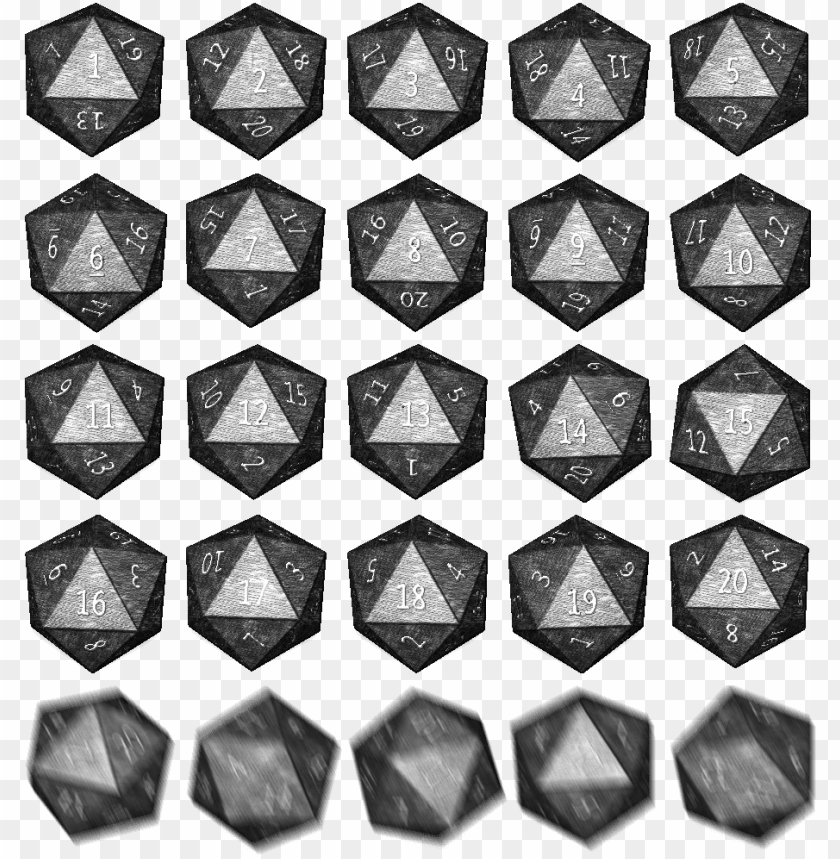
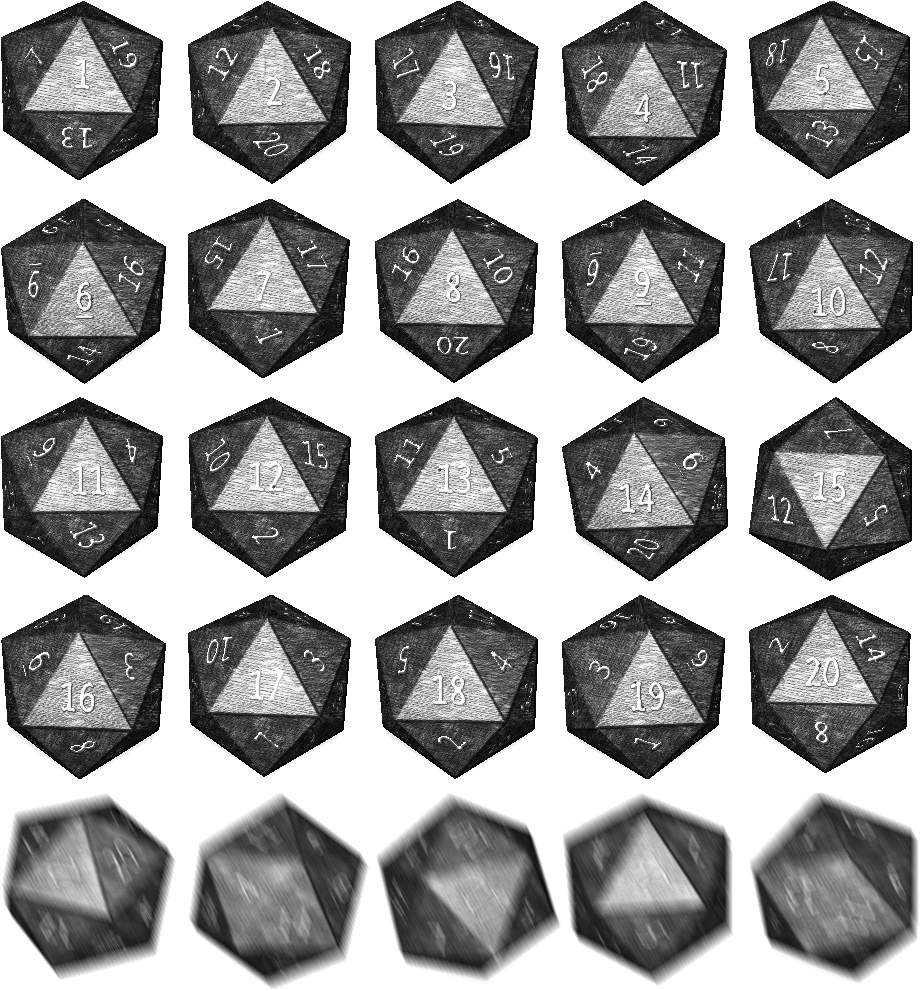
image fix started

diff --git a/character/characterView.js b/character/characterView.js
@@ -1,10 +1,11 @@
 import { requestData} from '../utilities.js';
-import {fs} from 'fs';
+// import {fs} from 'fs';
 export default class characterView {
     constructor() {}
     getFormData() {
         return {
             name: document.getElementById('name').value,
+            image: document.getElementById('characterImageSelect').files[0],
             level: document.getElementById('level').value,
             className: document.getElementById('class').value,
             race: document.getElementById('race').value,
@@ -105,10 +106,16 @@ export default class characterView {
             document.getElementById('error').appendChild(noCharactersDiv);
         }
     }
-    showImage(parentId,imgFile) {
-        const characterImageElem = document.createElement('img');
-        characterImageElem.src = imgFile;
-        document.getElementById(parentId).appendChild(characterImageElem);
+    showImage(imgElem,imgFile) {
+        const reader  = new FileReader();
+        reader.onloadend = function () {
+            imgElem.src = reader.result;
+        }
+        if (imgFile) {
+            reader.readAsDataURL(imgFile);
+        } else {
+            imgElem.src = "";
+        }
     }
     renderProvidedImages(){
             //render image

diff --git a/mainScreen/mainScreenModel.js b/mainScreen/mainScreenModel.js
@@ -6,17 +6,18 @@ export default class MainScreenModel {
         this.maps = [];
         this.content = "";
     }
-    // getImageSize(imageUrl) {
-    //     let dimension, image;
+    getImageSize(imageUrl) {
+        let dimension, image;
 
-    //     image = new Image();
-    //     image.src = imageUrl;
-    //     image.onload = function() {
-    //         dimension = {
-    //             width: image.naturalWidth,
-    //             height: image.naturalHeight
-    //         };
-    //     };
-    //     return dimension;
-    // }
+        image = new Image();
+        image.src = imageUrl;
+        image.onload = function() {
+            dimension = {
+                width: image.naturalWidth,
+                height: image.naturalHeight
+            };
+            console.log(dimension)
+        };
+        return dimension;
+    }
 }

diff --git a/character/characterController.js b/character/characterController.js
@@ -11,10 +11,9 @@ export default class characterController {
         window.location.href = './characterSelect.html';
     }
     uploadImage() {
-        const inputElement = document.getElementById("characterImage");
+        const inputElement = document.getElementById("characterImageSelect");
         inputElement.addEventListener("change", () => {
-            const fileList = this.files; 
-            this.characterView.showImage("characterImage",fileList[i]);
+            this.characterView.showImage(document.getElementById("characterImage"),inputElement.files[0]);
         });
     }
     async generateWeaponsDropDown() {

diff --git a/mainScreen/mainScreenStyle.css b/mainScreen/mainScreenStyle.css
@@ -48,19 +48,19 @@ a {
 }
 @keyframes myAnimation {
     0% {
-        background-position: 0px -680px;
+        background-position: 0px -800px;
     }
     100% {
-        background-position: 840px -680px;
+        background-position: 920px -800px;
     }
 }
 #dice {
     transform: scale(.5);
     width: 180px;
-    height: 160px;
+    height: 180px;
     background-image: url('../img/dice.png');
     margin: auto;
-    animation-duration: 1s;
+    animation-duration: .8s;
     animation-timing-function: steps(5, end);
     animation-name: myAnimation;
     animation-play-state: paused;

diff --git a/character/characterModel.js b/character/characterModel.js
@@ -2,7 +2,7 @@ import {requestData} from '../utilities.js';
 export default class CharacterModel {
     constructor() {
         this.characterName ='';
-        this.characterImage = '';
+        this.image = '';
         this.level = 1;
         this.exp = 0;
         this.class = '';
@@ -27,6 +27,7 @@ export default class CharacterModel {
     }
     setCharacter(dataObject) {
         this.characterName = dataObject.name;
+        this.image = dataObject.image;
         this.level = dataObject.level;
         this.exp = dataObject.exp;
         this.class = dataObject.className;

diff --git a/mainScreen/index.js b/mainScreen/index.js
@@ -5,7 +5,7 @@ import mainScreenController from './mainScreenController.js';
  */
 
 const controller = new mainScreenController();
-controller.mainScreenView.generateMap(24,12);
+controller.mainScreenView.generateMap(24,12, controller.mainScreenModel.getImageSize('../img/map1.jpg'));
 controller.mainScreenView.initPlayer("../img/dragonborn.png",4,1);
 const ws = new WebSocket('ws://localhost:5500');
 ws.addEventListener('open', () => {

diff --git a/mapSelect/mapSelect.html b/mapSelect/mapSelect.html
@@ -1,0 +1,17 @@
+<!DOCTYPE html>
+<html lang="en">
+<head>
+    <meta charset="UTF-8">
+    <meta name="viewport" content="width=device-width, initial-scale=1.0">
+    <title>DnD map select</title>
+</head>
+<body>
+    <div id='Maps'>
+        <div class="map">
+            <h2>Add new map</h2>
+            <div>+</div>
+            
+        </div>
+    </div>
+</body>
+</html>

diff --git a/mainScreen/mainScreenView.js b/mainScreen/mainScreenView.js
@@ -3,7 +3,7 @@ export default class mainScreenView{
         this.gridElement = document.getElementById('grid');
     }
 
-    generateMap(xTiles,yTiles){
+    generateMap(xTiles,yTiles, imgSize){
         //css calc() only accepts integers so we must convert xTiles and yTiles by rounding up.
         xTiles = Math.ceil(xTiles);
         yTiles = Math.ceil(yTiles);

diff --git a/character/editor.js b/character/editor.js
@@ -13,4 +13,4 @@ if(window.location.search != "?newCharacter") {
 myCharacterController.generateWeaponsDropDown();
 myCharacterController.generateSpellsDropDown();
 // myCharacterController.spellAddClick();
-myCharacterController.characterView.renderProvidedImages();
+// myCharacterController.characterView.renderProvidedImages();
